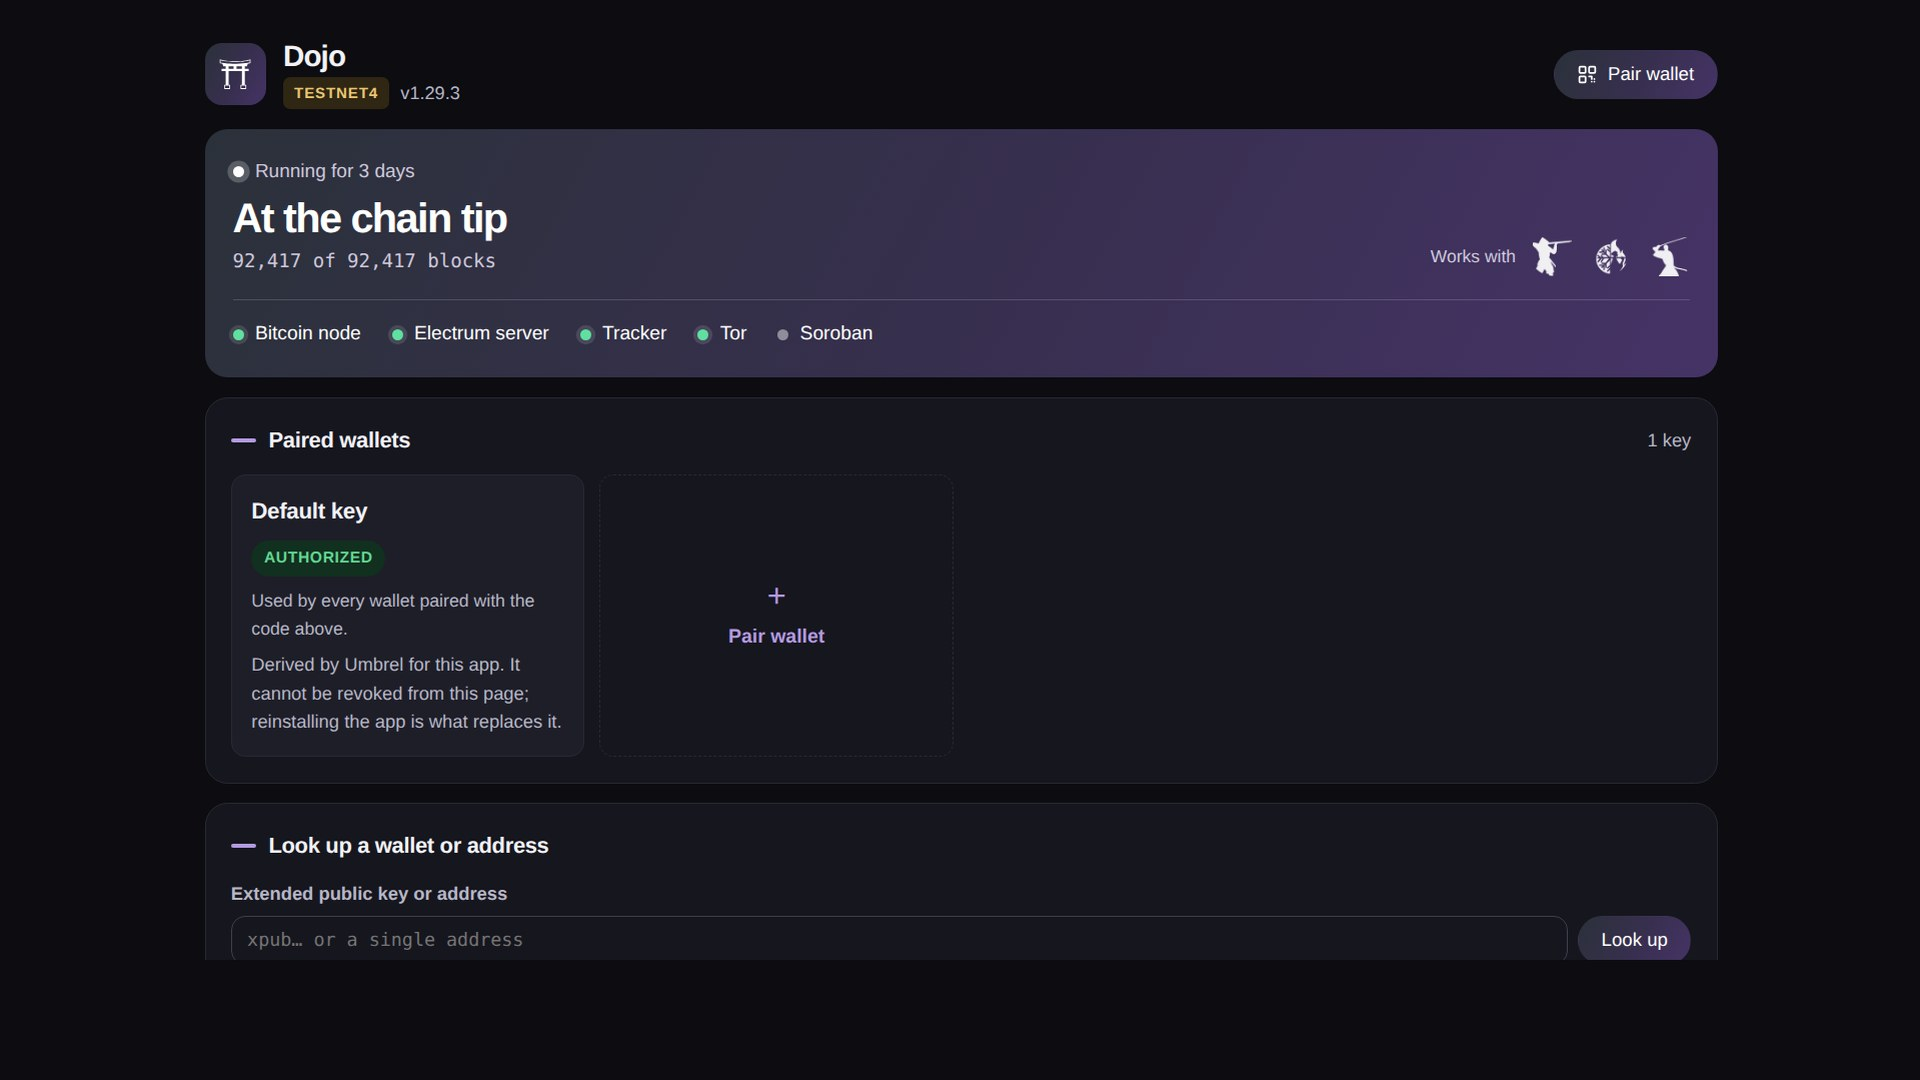
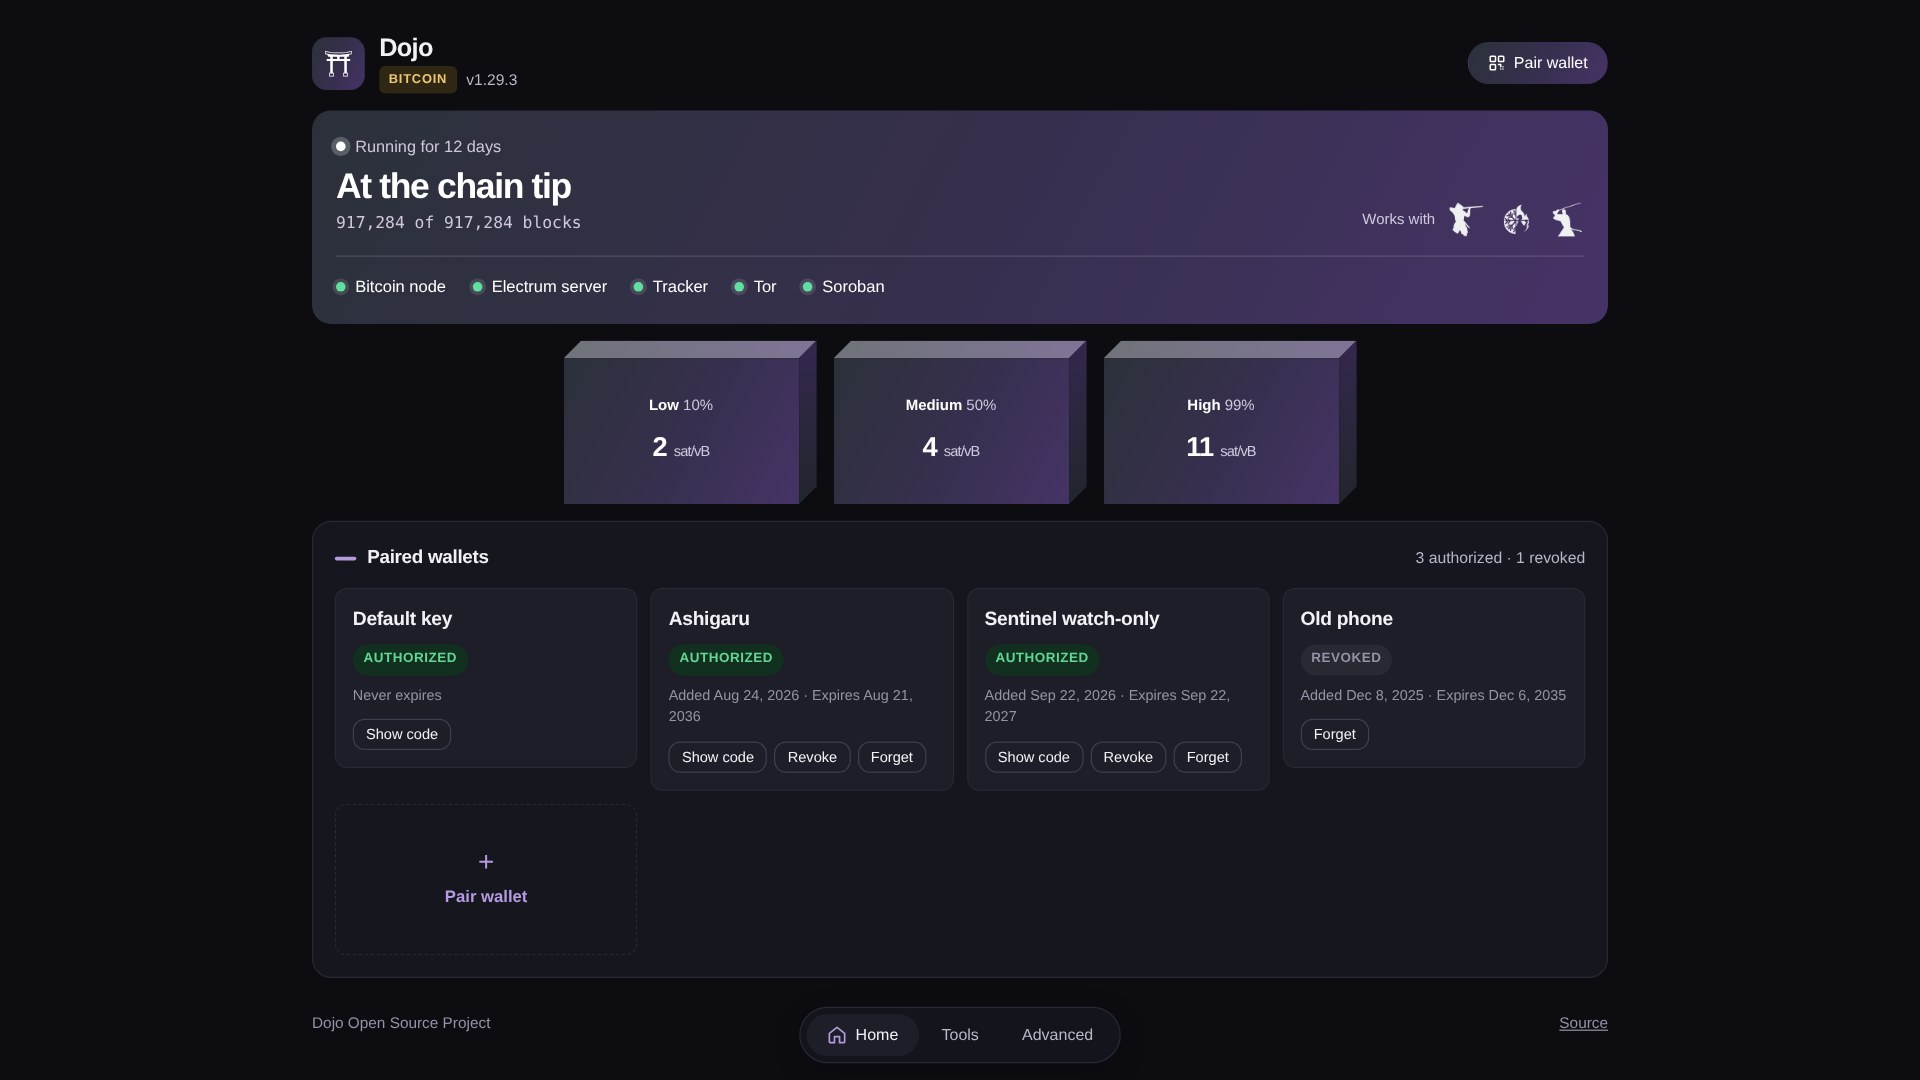
Replace the store screenshots, and commit the renderer
The four gallery images still showed the page from before the tabs: no fee
boxes, no tab bar and no rescan progress, a testnet4 badge, and an
unpainted black band along the bottom of the first. Nothing in the repo
could regenerate them.

umbrel/scripts/render-gallery.mjs renders the real page from
umbrel/images/nginx/connect/ as it ships, with fetch and WebSocket replaced
by fixtures before app.js runs. It always uses fixtures and never a device:
a real pairing QR encodes a live API key and the onion address, so a
screenshot of an actual install would publish a credential. Every value is
an obvious placeholder.

The images are dark through prefers-color-scheme, so the page's real dark
colours apply. Each is a single viewport at 1600x900 CSS pixels at 1.2x,
which is exactly 1920x1080, rather than a full-page capture. A full-page
capture left the black band and misplaced the fixed tab bar. The taller
viewport also lets the whole of Home and both rescan panels fit above the
tab bar.

1. Home: chain state on mainnet, fee boxes, and wallets in several states.
2. Pairing: the dialog open on a wallet's code.
3. Tools: a block-range rescan part-way through, with a real count and
   rate, above a wallet rescan counting the transactions it has found.
4. Advanced: transaction relay and the Maintenance Tool.

The filenames are unchanged, so the store generator and the gallery URLs
stay as they were. The images are not part of any container image, so no
[…]

diff --git a/README.md b/README.md
@@ -90,6 +90,10 @@ cd /tmp/umbrel-apps && npm install && npm run lint:apps -- dojo --check-images
 The **Validate** workflow runs that on every push, and also re-fetches the upstream tag `UMBREL.md`
 declares and reports any file in the vendored tree that differs from it.
 
+The community store's screenshots come from `umbrel/scripts/render-gallery.mjs`. It renders the real
+page against fixtures, never a device, because a real pairing QR encodes a live API key. Re-run it
+after any visible change to the page; its header lists the prerequisites.
+
 To build an image locally, first generate the files upstream's installer would have written:
 
 ```sh
